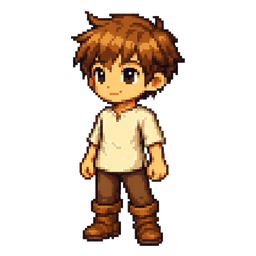
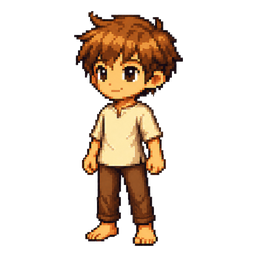
feat(art): cycle 49 — Tier 1 batch 2 deploy (6개, 다양한 직업 layered 활성화)
batch 2 자산:
- body/adventurer (재생성, no boots — 부츠 layer와 redundancy 해결)
- armor/plate (판금 갑옷 — 전사/나이트)
- armor/robe (마법사 로브 — 보라/파랑)
- weapon/staff (마법 지팡이 with 파란 orb)
- weapon/bow (활 + 화살)
- helmet/helm (강철 투구 — 나이트)

합성 preview 검증:
- 나이트 (판금+검+투구): 진짜 기사 느낌
- 마법사 (로브+지팡이): 진짜 마법사 느낌
- 레인저 (가죽+활): 진짜 레인저 느낌
- 전사 (판금+검): 진짜 전사 느낌
- 모험가 (가죽+단검/검): 기본 자연스러움 유지

LAYERED_MANIFEST 갱신 (자동):
  body: [adventurer]
  armor: [leather, plate, robe]
  boots: [leather]
  weapon: [bow, dagger, staff, sword]
  helmet: [helm]

544/544 테스트, lint clean, build ok, cap:sync 완료.

Changed region(s): [[0.2812, 0.0312, 0.7188, 0.9688]]

diff --git a/src/utils/layeredCharacter.js b/src/utils/layeredCharacter.js
@@ -39,15 +39,17 @@ export const LAYERED_MANIFEST = Object.freeze({
     ]),    // imagegen 자산 받으면 키 등록
     cape:    new Set([]),
     armor:   new Set([
-        'leather',
+        'leather', 'plate', 'robe',
     ]),
     boots:   new Set([
         'leather',
     ]),
     weapon:  new Set([
-        'dagger', 'sword',
+        'bow', 'dagger', 'staff', 'sword',
     ]),
-    helmet:  new Set([]),
+    helmet:  new Set([
+        'helm',
+    ]),
 });
 
 const LAYER_ORDER = Object.freeze(['cape', 'body', 'boots', 'armor', 'weapon', 'helmet']);